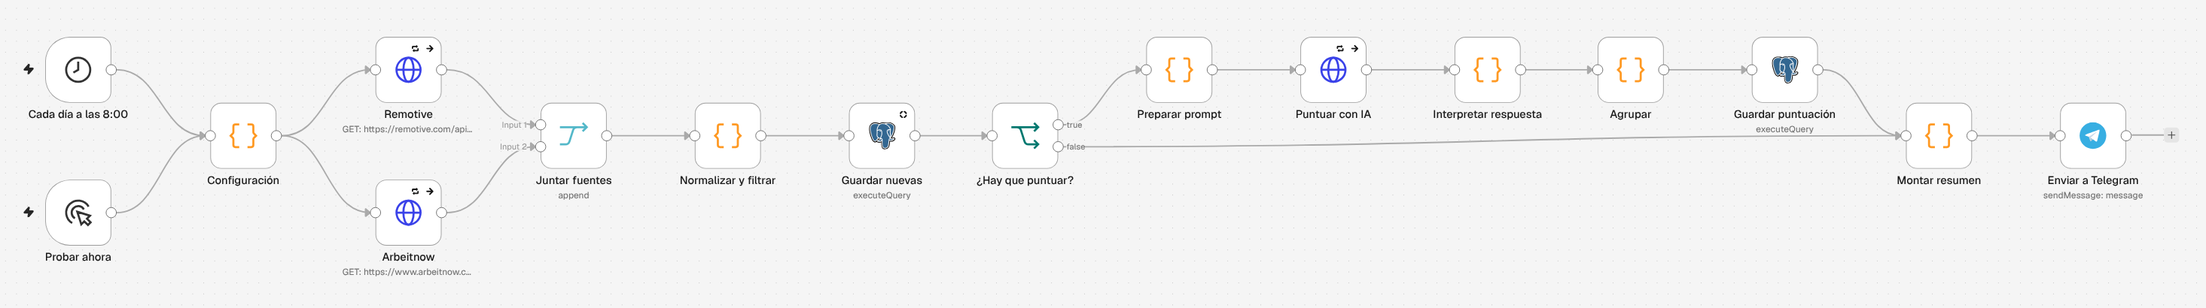
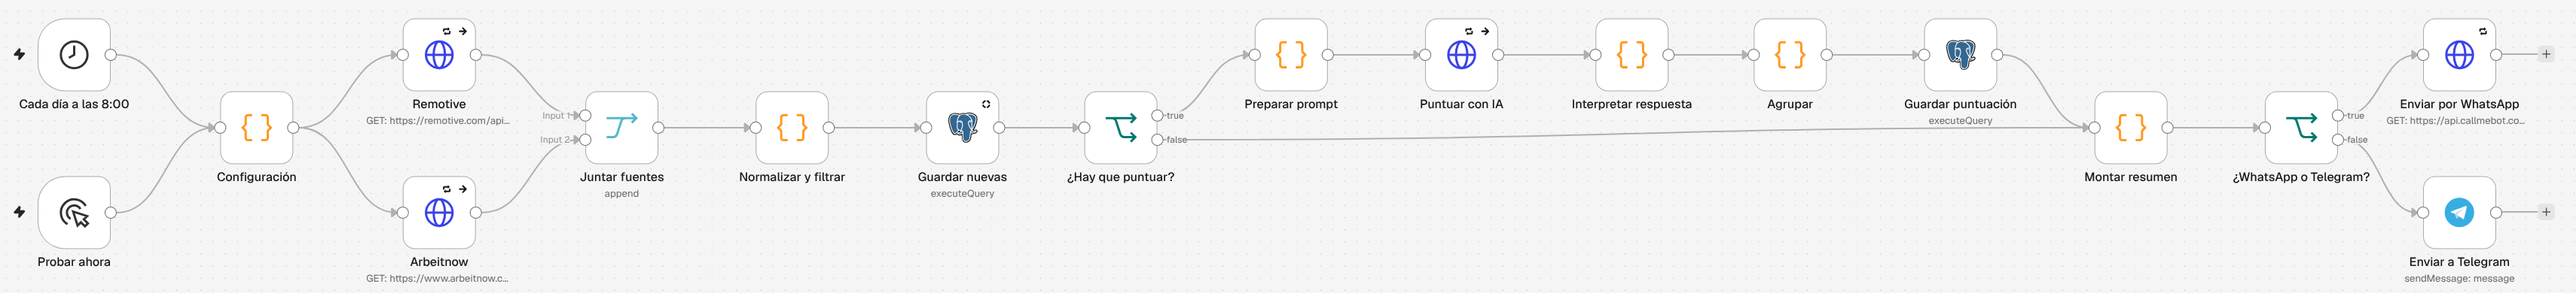
wip: avisos por WhatsApp

diff --git a/src/resumen.js b/src/resumen.js
@@ -1,39 +1,66 @@
-// Monta el mensaje de Telegram con las mejores ofertas del día.
+// Monta el mensaje con las mejores ofertas del día, en formato WhatsApp o Telegram.
 const cfg = $('Configuración').first().json;
 const stats = $('Normalizar y filtrar').first().json;
 const nuevas = $('Guardar nuevas').all().filter((i) => i.json.es_nueva === true).length;
 
-const esc = (s = '') => String(s)
-  .replace(/&/g, '&amp;').replace(/</g, '&lt;').replace(/>/g, '&gt;');
-
-const buenas = $input.all()
-  .map((i) => i.json)
-  .filter((o) => o.puntuacion !== null && o.puntuacion >= cfg.puntuacionMinima)
+const todas = $input.all().map((i) => i.json);
+const buenas = todas
+  .filter((o) => o.puntuacion !== null && o.puntuacion !== undefined && o.puntuacion >= cfg.puntuacionMinima)
   .sort((a, b) => b.puntuacion - a.puntuacion);
+const sinPuntuar = todas.filter((o) => o.id && o.puntuacion === null).length;
 
 const barra = (p) => '●'.repeat(p) + '○'.repeat(10 - p);
 
-let texto = `<b>🎯 Cazador de ofertas</b>\n`
+// Cada canal tiene su formato: WhatsApp usa *negrita* y _cursiva_; Telegram, HTML
+const formatos = {
+  whatsapp: {
+    max: 1500, // CallMeBot manda el texto en la URL: mejor mensajes cortos
+    maxOfertas: 5,
+    esc: (s = '') => String(s).replace(/[*_~`]/g, ''),
+    negrita: (s) => `*${s}*`,
+    cursiva: (s) => `_${s}_`,
+    enlace: (texto, url) => `${texto}\n🔗 ${url}`,
+  },
+  telegram: {
+    max: 3900, // límite de Telegram: 4096
+    maxOfertas: 10,
+    esc: (s = '') => String(s).replace(/&/g, '&amp;').replace(/</g, '&lt;').replace(/>/g, '&gt;'),
+    negrita: (s) => `<b>${s}</b>`,
+    cursiva: (s) => `<i>${s}</i>`,
+    enlace: (texto, url) => `<a href="${url}">${texto}</a>`,
+  },
+};
+
+const canal = cfg.aviso === 'telegram' ? 'telegram' : 'whatsapp';
+const f = formatos[canal];
+
+let texto = `🎯 ${f.negrita('Cazador de ofertas')}\n`
   + `${stats.total_descargadas} revisadas · ${stats.total_filtradas} pasan el filtro · `
-  + `${nuevas} nuevas · <b>${buenas.length} encajan contigo</b>\n`;
+  + `${nuevas} nuevas · ${f.negrita(`${buenas.length} encajan contigo`)}\n`;
 
-const sinPuntuar = $input.all().filter((i) => i.json.id && i.json.puntuacion === null).length;
 if (sinPuntuar) texto += `\n⏳ La IA no pudo puntuar ${sinPuntuar} oferta(s); se reintentará en la próxima ejecución.\n`;
-
 if (stats.errores?.length) {
-  texto += `\n⚠ Fuentes con error: ${esc(stats.errores.join(' | ')).slice(0, 300)}\n`;
+  texto += `\n⚠ Fuentes con error: ${f.esc(stats.errores.join(' | ')).slice(0, 300)}\n`;
 }
 
-for (const o of buenas.slice(0, 10)) {
-  const bloque = `\n<b>${o.puntuacion}/10</b> ${barra(o.puntuacion)}\n`
-    + `<a href="${esc(o.url)}">${esc(o.titulo)}</a>\n`
-    + `🏢 ${esc(o.empresa ?? '—')} · 📍 ${esc(o.ubicacion ?? '—')}\n`
-    + (o.tecnologias?.length ? `🧰 ${esc(o.tecnologias.join(', '))}\n` : '')
-    + (o.motivo ? `💬 <i>${esc(o.motivo)}</i>\n` : '');
-  if (texto.length + bloque.length > 3900) break; // límite de Telegram: 4096
+for (const o of buenas.slice(0, f.maxOfertas)) {
+  const bloque = `\n${f.negrita(`${o.puntuacion}/10`)} ${barra(o.puntuacion)}\n`
+    + `${f.enlace(f.esc(o.titulo), f.esc(o.url))}\n`
+    + `🏢 ${f.esc(o.empresa ?? '—')} · 📍 ${f.esc(o.ubicacion ?? '—')}\n`
+    + (o.tecnologias?.length ? `🧰 ${f.esc(o.tecnologias.join(', '))}\n` : '')
+    + (o.motivo ? `💬 ${f.cursiva(f.esc(o.motivo))}\n` : '');
+  if (texto.length + bloque.length > f.max) break;
   texto += bloque;
 }
 
+if (buenas.length > f.maxOfertas) texto += `\n…y ${buenas.length - f.maxOfertas} más en la base de datos.`;
 if (buenas.length === 0) texto += '\nHoy no hay nada que merezca la pena. Mañana más 💪';
 
-return [{ json: { texto, chatId: cfg.telegramChatId } }];
+return [{
+  json: {
+    canal,
+    texto,
+    telefono: cfg.whatsappTelefono,
+    chatId: cfg.telegramChatId,
+  },
+}];

diff --git a/src/configuracion.js b/src/configuracion.js
@@ -26,7 +26,11 @@ Prefiero remoto o presencial/híbrido en Valencia.`,
 
     puntuacionMinima: 6,      // de 0 a 10: a partir de aquí sale en el resumen
     maxPorEjecucion: 25,      // tope de ofertas que se mandan a la IA por ejecución
-    telegramChatId: 'PON_AQUI_TU_CHAT_ID',
+
+    // Por dónde te llegan los avisos: 'whatsapp' (CallMeBot) o 'telegram'
+    aviso: 'whatsapp',
+    whatsappTelefono: '+34XXXXXXXXX',          // tu número, con prefijo de país
+    telegramChatId: 'PON_AQUI_TU_CHAT_ID',     // solo si usas Telegram
 
     // Cualquier API compatible con OpenAI: Groq (gratis), OpenRouter, OpenAI, Ollama local...
     ia: {

diff --git a/README.md b/README.md
@@ -1,11 +1,11 @@
 # 🎯 Cazador de ofertas · n8n + IA + PostgreSQL
 
-Automatización hecha con **n8n** que cada mañana revisa ofertas de empleo de desarrollo web, descarta las que no encajan, **puntúa el resto con IA según mi perfil** y me manda por **Telegram** un resumen con las mejores.
+Automatización hecha con **n8n** que cada mañana revisa ofertas de empleo de desarrollo web, descarta las que no encajan, **puntúa el resto con IA según mi perfil** y me manda por **WhatsApp** (o Telegram) un resumen con las mejores.
 
 ![Workflow en n8n](docs/workflow.png)
 
 <p align="center">
-  <img src="docs/telegram.png" width="380" alt="Resumen que llega por Telegram (datos de prueba)">
+  <img src="docs/whatsapp.png" width="380" alt="Resumen que llega por WhatsApp (datos de prueba)">
 </p>
 
 ## Qué hace
@@ -15,9 +15,9 @@ Automatización hecha con **n8n** que cada mañana revisa ofertas de empleo de d
 3. **Aplica un filtro previo sin IA**: palabras clave del stack, títulos senior/lead fuera y ubicaciones compatibles. Así no se gastan llamadas a la IA en ofertas que no tienen sentido.
 4. **Deduplica en PostgreSQL** con `INSERT … ON CONFLICT DO NOTHING`, para que una oferta no se procese dos veces.
 5. **Puntúa cada oferta nueva de 0 a 10** con un LLM (cualquier API compatible con OpenAI). La IA devuelve un JSON con nivel, tecnologías y el motivo de la nota.
-6. **Guarda** la puntuación y **envía** a Telegram las que superan la nota mínima.
+6. **Guarda** la puntuación y **envía** por WhatsApp las que superan la nota mínima. El canal se elige en la configuración: WhatsApp (con [CallMeBot](https://www.callmebot.com)) o Telegram, y el mensaje se formatea para cada uno.
 
-Si la IA falla (límite de peticiones, caída…), la oferta se queda sin nota y **se reintenta en la siguiente ejecución**. Si una fuente cae, el resto sigue funcionando. Y si falla el workflow entero, un segundo workflow avisa por Telegram.
+Si la IA falla (límite de peticiones, caída…), la oferta se queda sin nota y **se reintenta en la siguiente ejecución**. Si una fuente cae, el resto sigue funcionando. Y si falla el workflow entero, un segundo workflow avisa por WhatsApp.
 
 ```mermaid
 flowchart LR
@@ -30,7 +30,9 @@ flowchart LR
     IA --> DB2[(Guardar nota)]
     DB2 --> M[Montar resumen]
     DB -->|nada nuevo| M
-    M --> TG[📱 Telegram]
+    M --> C2{Canal}
+    C2 -->|whatsapp| WA[📱 WhatsApp]
+    C2 -->|telegram| TG[✈ Telegram]
 ```
 
 ## Tecnologías
@@ -41,12 +43,13 @@ flowchart LR
 | Lógica | JavaScript (nodos Code) |
 | Base de datos | PostgreSQL 17: esquema propio, CTEs, `jsonb_to_recordset`, vistas |
 | IA | API compatible con OpenAI (por defecto Groq, que tiene plan gratuito) |
+| Avisos | WhatsApp (CallMeBot) o Telegram |
 | Infraestructura | Docker Compose |
 | Tests | `node:test` (unitarios) + test e2e con un servidor falso |
 
 ## Puesta en marcha
 
-**Requisitos:** Docker, un bot de Telegram y una clave de API de IA.
+**Requisitos:** Docker, una clave de API de IA y WhatsApp (o un bot de Telegram).
 
 ```bash
 git clone https://github.com/pablopedron/n8n-workflow.git
@@ -61,8 +64,9 @@ Abre http://localhost:5678, crea tu usuario y después:
 2. **Crea las credenciales:**
    - **Postgres**: host `postgres`, base de datos `n8n`, usuario y contraseña los de tu `.env`.
    - **Header Auth** (para la IA): name `Authorization`, value `Bearer TU_CLAVE`. Puedes sacar una clave gratis en [console.groq.com](https://console.groq.com/keys).
-   - **Telegram**: el token que te da [@BotFather](https://t.me/BotFather). Para saber tu `chat_id`, escribe a tu bot y abre `https://api.telegram.org/bot<TOKEN>/getUpdates`.
-3. **Edita el nodo `Configuración`**: tu perfil, palabras clave, nota mínima y `telegramChatId`. Pon también el `chat_id` en el workflow de avisos de error.
+   - **WhatsApp (CallMeBot)**: sigue los pasos de [su web](https://www.callmebot.com/blog/free-api-whatsapp-messages/). Guardas su número en tus contactos, le mandas *"I allow callmebot to send me messages"* y te contesta con tu `apikey`. En n8n crea una credencial **Query Auth** con name `apikey` y value tu clave, y úsala en *Enviar por WhatsApp* y en el workflow de avisos de error.
+   - **Telegram** (opcional): el token que te da [@BotFather](https://t.me/BotFather). Para saber tu `chat_id`, escribe a tu bot y abre `https://api.telegram.org/bot<TOKEN>/getUpdates`.
+3. **Edita el nodo `Configuración`**: tu perfil, palabras clave, nota mínima, `aviso` (`'whatsapp'` o `'telegram'`) y tu `whatsappTelefono` (con prefijo, por ejemplo `+34600111222`). Pon también tu teléfono en el workflow de avisos de error.
 4. Pulsa **Probar ahora** y, cuando funcione, **publica/activa** el workflow. En *Settings* del workflow principal puedes elegir el de avisos como *Error workflow*.
 
 ## Consultas útiles
@@ -101,16 +105,16 @@ npm test               # tests unitarios, sin instalar nada
 tests/e2e/run.sh       # e2e: necesita la CLI de n8n y un Postgres con el esquema aplicado
 ```
 
-El test e2e levanta un servidor que imita Remotive, Arbeitnow, la API de IA y Telegram, importa el workflow en n8n y lo ejecuta entero. Comprueba la deduplicación entre ejecuciones y el reintento cuando la IA falla.
+El test e2e levanta un servidor que imita Remotive, Arbeitnow, la API de IA, CallMeBot y Telegram, importa el workflow en n8n y lo ejecuta entero. Comprueba la deduplicación entre ejecuciones y el reintento cuando la IA falla.
 
 ## Ideas para seguir
 
 - Añadir más fuentes (cada una es un nodo HTTP más y una función en `normalizar.js`).
-- Un comando de Telegram (`/aplicada 42`) para marcar ofertas sin entrar en la base de datos.
+- Un agente de IA al que preguntarle por chat ("¿qué ofertas de Laravel hay esta semana?") usando la base de datos como herramienta.
 - Un dashboard con las tecnologías más pedidas por semana.
 
 ---
 
-Ofertas de [Remotive](https://remotive.com) y [Arbeitnow](https://www.arbeitnow.com), usadas a través de sus APIs públicas y citando la fuente, como piden sus condiciones. Remotive pide un máximo de 4 peticiones al día, y este workflow hace 1.
+Ofertas de [Remotive](https://remotive.com) y [Arbeitnow](https://www.arbeitnow.com), usadas a través de sus APIs públicas y citando la fuente, como piden sus condiciones. Remotive pide un máximo de 4 peticiones al día, y este workflow hace 1. La API gratuita de CallMeBot es solo para uso personal.
 
 Licencia MIT.
